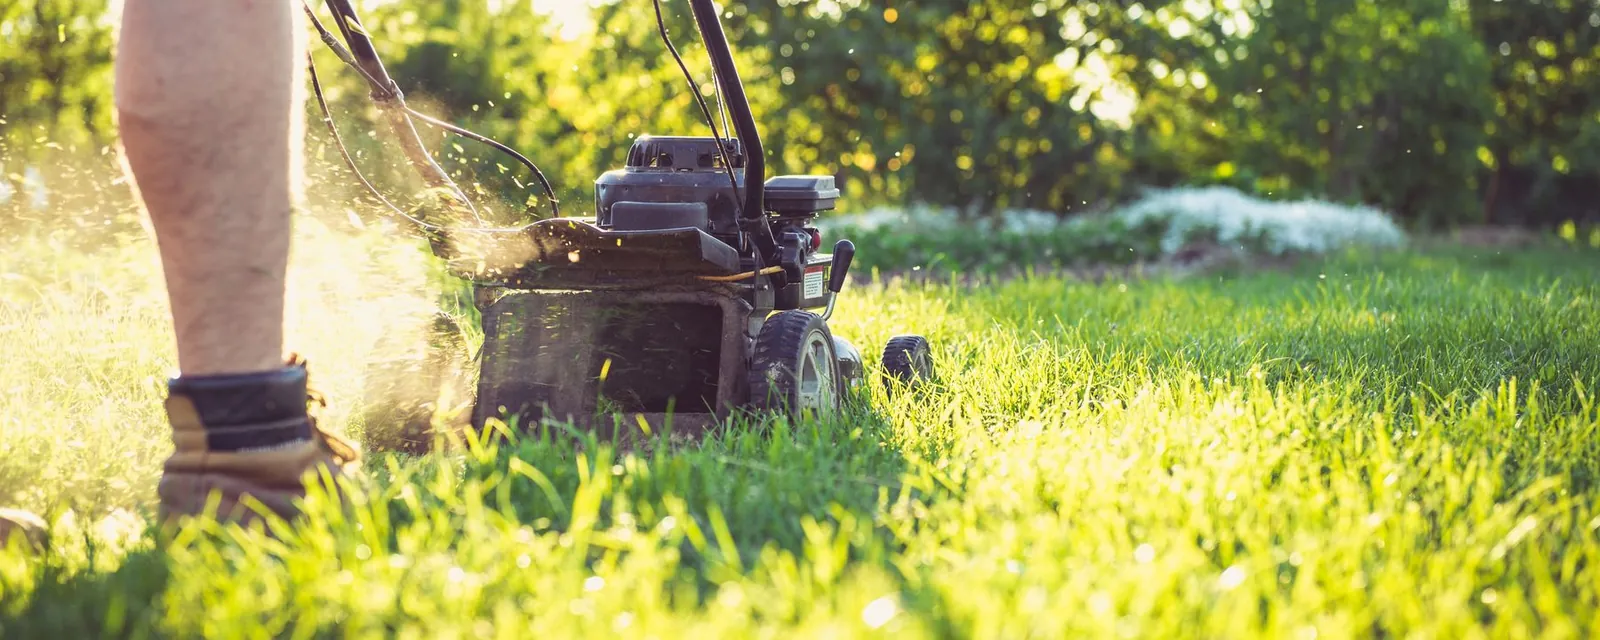
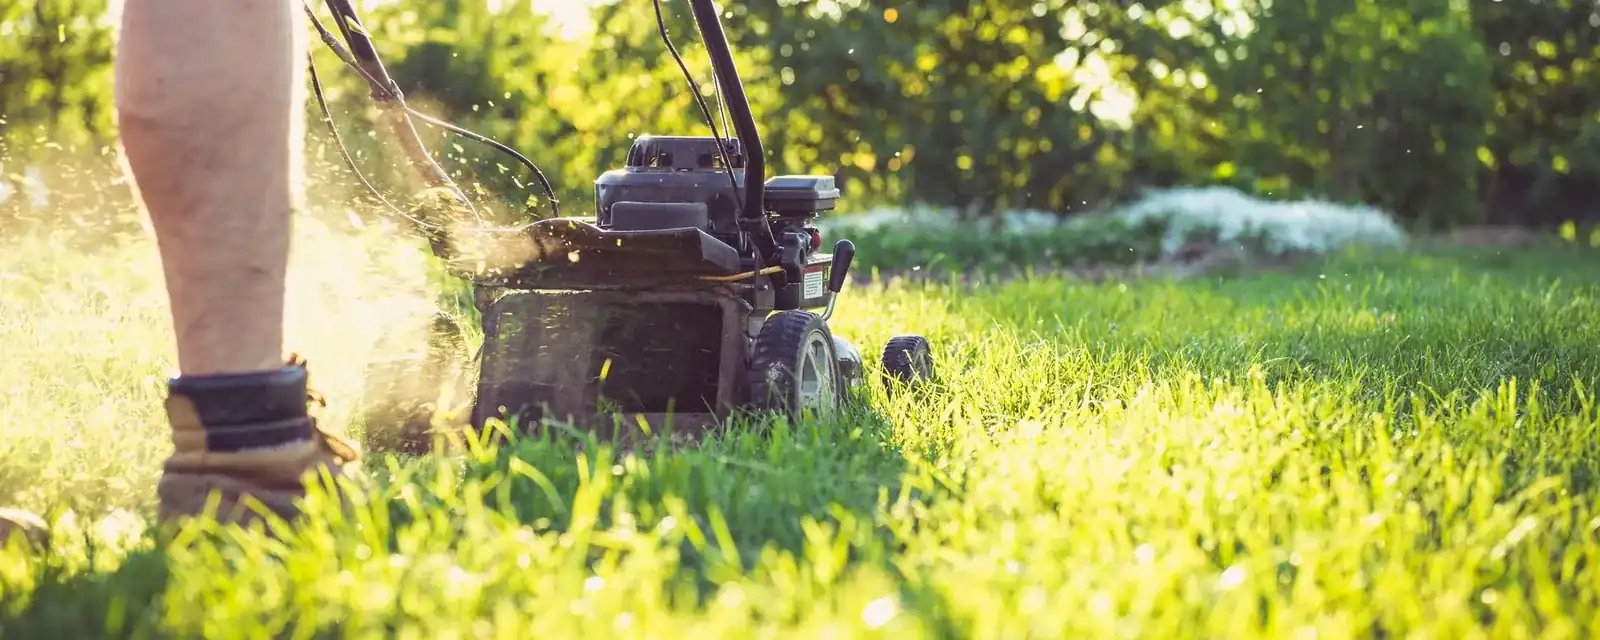
[bean] Preview: OG/Twitter tags, JSON-LD cleanup, meta trims, hub counts, related/similar blocks, signup form, vendor link updates, lighter hero, LawnPro date

Changed region(s): [[0.625, 0.5625, 0.7188, 0.625], [0.5625, 0.5938, 0.5938, 0.625]]

diff --git a/build.py b/build.py
@@ -133,7 +133,7 @@ def layout(path, title, desc, body, schema=None, noindex=False):
     return f"""<!doctype html><html lang="en"><head><meta charset="utf-8"><meta name="viewport" content="width=device-width,initial-scale=1"><meta name='impact-site-verification' value='70307236-cb21-47c8-9ebf-a76cad3c57e1'>
 <title>{e(title)}</title><meta name="description" content="{e(desc)}"><link rel="canonical" href="{BASE}{path}">
 <meta name="theme-color" content="#0f5e4f"><link rel="icon" href="/favicon.svg" type="image/svg+xml">
-<link rel="stylesheet" href="/style.css">{ROBOTS_NOINDEX if noindex else ""}{ld}</head><body><a class="skip" href="#main">Skip to content</a>
+<link rel="stylesheet" href="/style.css">{og_tags(path, title, desc)}{ROBOTS_NOINDEX if noindex else ""}{ld}</head><body><a class="skip" href="#main">Skip to content</a>
 <header class="top"><div class="wrap hd"><a class="logo" href="/"><svg viewBox="0 0 32 32" width="28" height="28" aria-hidden="true"><rect width="32" height="32" rx="7" fill="#0f5e4f"/><path d="M8 11h16M8 16h11M8 21h7" stroke="#fff" stroke-width="3" stroke-linecap="round"/></svg>{site['name']}</a>
 <nav class="quick" aria-label="Quick"><a class="pill pri" href="/#trades">Best for my trade</a>{cmp_link}</nav></div>
 <nav class="trades wrap" aria-label="Trades">{nav}<a href="/job-quote-estimator/">Calculator</a><a href="/software-buying-checklist/">Checklist</a><a href="/about/">Methodology</a><a href="/directory/se-iowa-industrial-contractors/">SE Iowa Directory</a></nav></header>
@@ -217,16 +217,78 @@ def build_404():
     html = re.sub(r'<link rel="canonical"[^>]*>', '', html).replace("</head>", '<meta name="robots" content="noindex">' + "</head>", 1)
     (OUT/"404.html").write_text(re.sub(r'(href|src)="/(?!/)', lambda m: f'{m.group(1)}="{PREFIX}/', html))
 
+# --- 2026-11-10 audit fixes: per-page dates, Open Graph, related blocks, signup, JSON-LD offers ---
+EXCLUDE_SIMILAR = {"truecoach"}  # kept off content pages (not suggested as a similar tool)
+SIGNUP = '<form action="https://buttondown.com/api/emails/embed-subscribe/stackguide" method="post" class="embeddable-buttondown-form sub noprint"><h2>Get updates</h2><p>Occasional emails when software prices change or we publish a new guide. Unsubscribe anytime.</p><div class="row"><label for="bd-email" class="lbl">Email address</label><input type="email" name="email" id="bd-email" required placeholder="you@example.com" autocomplete="email"><input type="hidden" name="tag" value="tradestackguide"><button type="submit">Get updates</button></div></form>'
+OG = {}  # path -> IMG key (filled in build())
+def og_tags(path, title, desc):
+    k = OG.get(path, "hero"); k = k if k in IMG else "hero"; f, w, h, alt = IMG[k][:4]
+    return (f'<meta property="og:site_name" content="{e(site["name"])}"><meta property="og:type" content="{"website" if path == "/" else "article"}">'
+            f'<meta property="og:title" content="{e(title)}"><meta property="og:description" content="{e(desc)}"><meta property="og:url" content="{BASE}{path}">'
+            f'<meta property="og:image" content="{BASE}/img/{f}"><meta property="og:image:width" content="{w}"><meta property="og:image:height" content="{h}">'
+            f'<meta property="og:image:alt" content="{e(alt)}"><meta name="twitter:card" content="summary_large_image">')
+def fit_title(*cands, limit=60):
+    for c in cands:
+        if len(c) <= limit: return c
+    return cands[-1]
+def tool_title(x):
+    yr = LC[:4]; short = x.get("short_name") or re.sub(r"\s*\([^)]*\)", "", x["name"])
+    return fit_title(f"{x['name']} Pricing & Features ({yr}): Sourced Overview", f"{x['name']} Pricing & Features ({yr})",
+                     f"{short} Pricing & Features ({yr}): Sourced Overview", f"{short} Pricing & Features ({yr})")
+def offer(x):
+    """schema.org Offer only when the vendor publishes a plain numeric starting price (never a rating)."""
+    s = (x.get("starting_price") or "").strip(); seg = re.split(r"[;(]", s)[0]
+    if re.match(r"^Free\b", s): return {"@type": "Offer", "price": "0", "priceCurrency": "USD", "description": s}
+    m = re.match(r"^(?:From |from )?(?:USD )?([$£])(\d[\d,]*(?:\.\d+)?)", s)
+    if not m or "+" in seg: return None
+    return {"@type": "Offer", "price": m.group(2).replace(",", ""), "priceCurrency": "USD" if m.group(1) == "$" else "GBP", "description": s}
+def first_commit(path):
+    if not GIT_OK: return None
+    rel = str(Path(path).resolve().relative_to(R.resolve()))
+    out = _git("log", "--diff-filter=A", "--follow", "--format=%cs", "--", rel).splitlines()
+    return out[-1] if out else None
+def page_date(p):
+    ds = [d for d in [p.get("last_verified")] + [tools[s].get("last_verified") for s in p.get("tools", []) if s in tools] if d]
+    return min(ds) if ds else None
+REL_TYPES = {"compare", "vs", "alternatives", "pricing"}
+def related(p, k=4):
+    mine = set(p.get("tools", [])) - EXCLUDE_SIMILAR
+    if not mine: return ""
+    sc = []
+    for q in pages:
+        if q is p: continue
+        sh = mine & set(q.get("tools", []))
+        if not sh: continue
+        s = 2 * len(sh) + (3 if q.get("type") in REL_TYPES else 0) + (2 if f'/{q["slug"]}/' not in p.get("body", "") else 0)
+        sc.append((-s, q["slug"], q))
+    if not sc: return ""
+    li = "".join(f'<li><a href="/{q["slug"]}/">{e(q["h1"])}</a></li>' for _, _, q in sorted(sc)[:k])
+    return f"<section class='related'><h2>Related comparisons</h2><ul>{li}</ul></section>"
+def similar(x, k=4):
+    from collections import Counter
+    tr = set(x.get("trades", [])); co = Counter()
+    for q in pages:
+        if x["slug"] in q.get("tools", []): co.update(q["tools"])
+    sc = []
+    for y in tools.values():
+        if y["slug"] == x["slug"] or y["slug"] in EXCLUDE_SIMILAR: continue
+        s = 2 * len(tr & set(y.get("trades", []))) + co[y["slug"]]
+        if s > 0: sc.append((-s, y["name"], y))
+    if not sc: return ""
+    li = "".join(f'<li><a href="/tools/{y["slug"]}/">{y["name"]}</a>: {e(y.get("starting_price", "unknown"))} <span class="note">(verified {y.get("last_verified") or LC})</span></li>' for _, _, y in sorted(sc)[:k])
+    return f"<section class='related'><h2>Similar tools</h2><ul>{li}</ul></section>"
+
 def build():
     if OUT.exists(): shutil.rmtree(OUT)
     OUT.mkdir(); shutil.copy(R/"static/style.css", OUT/"style.css"); shutil.copy(R/"static/favicon.svg", OUT/"favicon.svg"); shutil.copytree(R/"static/img", OUT/"img")
     _k=(R/"static/indexnow-key.txt").read_text().strip(); (OUT/f"{_k}.txt").write_text(_k)
+    OG.update({pth: k for pth, _, k in page_targets()}); OG.update({f'/trades/{t["slug"]}/': t['key'] for t in trades if t['key'] in IMG})
     # home
     cards = "".join(f'<li><a class="card trade" href="/trades/{t["slug"]}/">{icon(t["key"])}<span>{t["name"]} software</span></a></li>' for t in trades)
     arts = "".join(f'<li><a class="card guide" href="/{p["slug"]}/"><span class="tag">{e(p.get("type","guide")).title()}</span>{e(p["h1"])}</a></li>' for p in pages)
     tcards = "".join(toolcard(x) for x in tools.values())
-    write("/", layout("/", f"{site['name']}: Software Comparisons for Pool, Pest, Lawn & Cleaning Pros",
-        "Sourced, no-fluff comparisons of scheduling, routing and invoicing software for small pool, pest control, lawn care, window cleaning and pressure washing businesses.",
+    write("/", layout("/", f"{site['name']}: Pool, Pest, Lawn & Cleaning Software",
+        "Sourced comparisons of scheduling, routing and invoicing software for small pool, pest control, lawn care, window cleaning and pressure washing businesses.",
         f"<section class='hero'><div class='banner'>{pic('hero','banner-img',lazy=False)}<div class='banner-txt'><h1>Find the right software for your service business</h1><p class='lead'>{site['tagline']}. Every price links to its source. If a number isn't public, we say unknown.</p></div></div><ul class='grid trades-g' id='trades' aria-label='Choose your trade'>{cards}</ul>{trustbar()}</section><h2>Tools we track</h2><div class='grid tools-g'>{tcards}</div><h2>Guides and comparisons</h2><ul class='grid guides-g'>{arts}</ul>",
         [{"@context":"https://schema.org","@type":"WebSite","name":site["name"],"url":BASE+"/"}]))
     # about
@@ -248,9 +310,9 @@ def build():
         li = "".join(f'<li><a href="/tools/{x["slug"]}/">{x["name"]}</a>: from {x["plans"][0]["monthly_no_commit"]}</li>' for x in ts)
         path = f"/trades/{t['slug']}/"
         lm(path, gitdate(D/"trades.json"), *[x.get("last_verified") for x in ts])
-        write(path, layout(path, t.get("seo_title") or f"{t['name']} Business Software: Tools, Prices & Comparisons ({LC[:4]})",
-            t.get("seo_description") or fit_desc(f"{t['name']} software compared: ", [x['name'] for x in ts], f"Sourced prices and trials, checked {LC}."),
-            f"{pic(t['key'])}<div class='ph'>{icon(t['key'],'ic big')}<h1>{t['name']} software</h1></div><p class='lead'>{t['intro']}</p>{trustbar()}<h2>Tools</h2><div class='grid tools-g'>{''.join(toolcard(x) for x in ts)}</div><h2>Side-by-side comparison</h2>{table([x['slug'] for x in ts])}<ul class='sr'>{li}</ul>" + (f"<h2>Guides</h2><ul>{rel}</ul>" if rel else ""),
+        write(path, layout(path, (t["seo_title"].replace("{n}", str(len(ts))) if t.get("seo_title") else fit_title(f"{t['name']} Business Software: Tools, Prices & Comparisons ({LC[:4]})", f"{t['name']} Business Software: {len(ts)} Tools Compared ({LC[:4]})")),
+            (t["seo_description"].replace("{n}", str(len(ts))) if t.get("seo_description") else None) or fit_desc(f"{t['name']} software compared: ", [x['name'] for x in ts], f"Sourced prices and trials, checked {LC}."),
+            f"{pic(t['key'])}<div class='ph'>{icon(t['key'],'ic big')}<h1>{t['name']} software</h1></div><p class='lead'>{t['intro']}</p>{trustbar()}<h2>Tools</h2><div class='grid tools-g'>{''.join(toolcard(x) for x in ts)}</div><h2>Side-by-side comparison</h2>{table([x['slug'] for x in ts])}<ul class='sr'>{li}</ul>" + (f"<h2>Guides</h2><ul>{rel}</ul>" if rel else "") + SIGNUP,
             [crumbs([("Home","/"),(t["name"],path)])]))
     PIMG = {slug: k for _, slug, k in page_targets()}
     # tools
@@ -259,16 +321,16 @@ def build():
         plans = "".join(f"<tr><td>{p['name']}</td><td>{p['users']}</td><td>{p['monthly_no_commit']}</td><td>{p['annual']}</td></tr>" for p in x["plans"])
         key = x["slug"].replace("-","")
         cta = afflink(key, f"Visit {x['name']}") if key in aff else ""
-        write(path, layout(path, f"{x['name']} Pricing & Features ({LC[:4]}): Sourced Overview", f"{x['name']} plans, prices, trial and key features from the vendor's public pricing page, last checked {LC}.",
-            f"{pic(PIMG['tools/'+x['slug']])}<h1>{x['name']}: pricing and features</h1>{trustbar(x.get('last_verified'))}<div class='summary card'><p class='bf'><span class='lbl'>Best for</span> {e(x.get('best_for','unknown'))}</p><p class='price'><span class='lbl'>Starting price</span> {e(x.get('starting_price','unknown'))}</p>{proscons(x)}<div class='actions'>{cta}</div></div><h2>Plans</h2><div class='tw' tabindex='0' role='region' aria-label='Plans table'><table><tr><th>Plan</th><th>Users</th><th>Monthly</th><th>Annual</th></tr>{plans}</table></div>"+(f"<h2>Who it's for</h2>{x['who_html']}" if x.get('who_html') else "")+(f"<h2>How it compares</h2>{render(x['compare_html'])}" if x.get('compare_html') else "")+f"<h2>Key facts</h2><ul class='facts'><li>Trial: {x['free_trial']}</li><li>Contract: {x['contract']}</li><li>Extra users/units: {x['extra_user']}</li>"+(f"<li>Add-ons: {e(x['add_ons'])}</li>" if x.get('add_ons') else "")+f"<li>Routing: {x['routing']}</li><li>Payments: {x['card_fee']}</li><li>Rating: {x['rating']}</li></ul><p>Sources: "+" ".join(f'<a href="{s}" rel="nofollow">{s}</a>' for s in x['sources'])+"</p>"+(("<h2>Guides featuring "+x['name']+"</h2><ul>"+"".join(f'<li><a href="/{p["slug"]}/">{e(p["h1"])}</a></li>' for p in pages if x['slug'] in p.get('tools',[]))+"</ul>") if any(x['slug'] in p.get('tools',[]) for p in pages) else "")+f"<div class='actions'>{cta}</div>",
-            [crumbs([("Home","/"),(x["name"],path)]),{"@context":"https://schema.org","@type":"SoftwareApplication","name":x["name"],"applicationCategory":"BusinessApplication","url":x["website"]}]))
+        write(path, layout(path, tool_title(x), f"{x['name']} plans, prices, trial and key features from the vendor's public pricing page, last checked {LC}.",
+            f"{pic(PIMG['tools/'+x['slug']])}<h1>{x['name']}: pricing and features</h1>{trustbar(x.get('last_verified'))}<div class='summary card'><p class='bf'><span class='lbl'>Best for</span> {e(x.get('best_for','unknown'))}</p><p class='price'><span class='lbl'>Starting price</span> {e(x.get('starting_price','unknown'))}</p>{proscons(x)}<div class='actions'>{cta}</div></div><h2>Plans</h2><div class='tw' tabindex='0' role='region' aria-label='Plans table'><table><tr><th>Plan</th><th>Users</th><th>Monthly</th><th>Annual</th></tr>{plans}</table></div>"+(f"<h2>Who it's for</h2>{x['who_html']}" if x.get('who_html') else "")+(f"<h2>How it compares</h2>{render(x['compare_html'])}" if x.get('compare_html') else "")+f"<h2>Key facts</h2><ul class='facts'><li>Trial: {x['free_trial']}</li><li>Contract: {x['contract']}</li><li>Extra users/units: {x['extra_user']}</li>"+(f"<li>Add-ons: {e(x['add_ons'])}</li>" if x.get('add_ons') else "")+f"<li>Routing: {x['routing']}</li><li>Payments: {x['card_fee']}</li><li>Rating: {x['rating']}</li></ul><p>Sources: "+" ".join(f'<a href="{s}" rel="nofollow">{s}</a>' for s in x['sources'])+"</p>"+(("<h2>Guides featuring "+x['name']+"</h2><ul>"+"".join(f'<li><a href="/{p["slug"]}/">{e(p["h1"])}</a></li>' for p in pages if x['slug'] in p.get('tools',[]))+"</ul>") if any(x['slug'] in p.get('tools',[]) for p in pages) else "")+similar(x)+f"<div class='actions'>{cta}</div>"+SIGNUP,
+            [crumbs([("Home","/"),(x["name"],path)]),{**{"@context":"https://schema.org","@type":"SoftwareApplication","name":x["name"],"applicationCategory":"BusinessApplication","url":x["website"]}, **({"offers": offer(x)} if offer(x) else {})}]))
     # articles
     for pf, p in zip(PAGE_FILES, pages):
         path = f"/{p['slug']}/"; lm(path, gitdate(pf), p.get("last_verified"))
         faq = "".join(f"<h3>{e(q)}</h3><p>{e(a)}</p>" for q,a in p.get("faq",[]))
-        sch = [crumbs([("Home","/"),(p["h1"],path)]),{"@context":"https://schema.org","@type":"Article","headline":p["h1"],"dateModified":p.get("last_verified",LC),"author":{"@type":"Organization","name":site["name"]}}]
+        sch = [crumbs([("Home","/"),(p["h1"],path)]),{"@context":"https://schema.org","@type":"Article","headline":p["h1"],"dateModified":p.get("last_verified",LC),"datePublished":first_commit(pf) or TODAY,"image":f"{BASE}/img/{IMG.get(PIMG[p['slug']], IMG['hero'])[0]}","author":{"@type":"Organization","name":site["name"]},"publisher":{"@type":"Organization","name":site["name"],"url":BASE+"/"}}]
         if p.get("faq"): sch.append({"@context":"https://schema.org","@type":"FAQPage","mainEntity":[{"@type":"Question","name":q,"acceptedAnswer":{"@type":"Answer","text":a}} for q,a in p["faq"]]})
-        write(path, layout(path, p["title"], p["description"], f"{pic(PIMG[p['slug']])}<h1>{e(p['h1'])}</h1>{trustbar(p.get('last_verified'))}{render(p['body'])}" + (f"<h2>FAQ</h2>{faq}" if faq else ""), sch))
+        write(path, layout(path, p["title"], p["description"], f"{pic(PIMG[p['slug']])}<h1>{e(p['h1'])}</h1>{trustbar(p.get('last_verified'))}{render(p['body'])}" + related(p) + (f"<h2>FAQ</h2>{faq}" if faq else "") + ("" if "buttondown" in json.dumps(p) else SIGNUP), sch))
     build_directory()
     build_404()
     shutil.copytree(R/"static/.well-known", OUT/".well-known"); (OUT/".nojekyll").write_text("")
